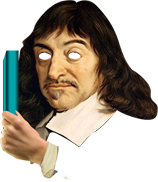
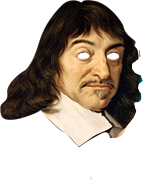
change

diff --git a/javascripts/player.js b/javascripts/player.js
@@ -1,62 +1,36 @@
-// face sprites should be always aligned with eyes because eyes pos is depends on eyes with
-
-var Player = function() {
+// Example how to add new character
+// player.addCharacter({
+//     name : 'Dekart',
+//     faceNormal : image,
+//     faceWin : image,
+//     faceLose : image,
+//     eyeImage : image,
+//     faceOffset : p5.Vector(0, 0),
+//     eyeLPos : p5.Vector(0, 0),
+//     eyeRPos : p5.Vector(0, 0),
+// })
+// ---------------------- CHARACTER -------------------------
+var Character = function(data) {
+    this.name = data['name'];
     this.face = createSprite();
-    this.face.offset = new p5.Vector(0, -130);
-    this.face.timer = 0; // for animation change
-    this.hand = createSprite();
-    this.hand.offset = new p5.Vector(59, -129 / 2);
-    this.hand.immovable = true;
-    this.handVelX = 0;
-    // this.hand.debug = true;
-
-    // Create Event. Set function as a var to pass it somewhere, should run once
-    var self = this; // correct scope to use global variables
-    this.onLoose = function() {
-        self.face.changeImage('loose');
-        self.face.timer = 60;
-    }
-    this.onWin = function() {
-        self.face.changeImage('win');
-        self.face.timer = 60;
-    }
-}
-Player.prototype.getPaddle = function() {
-    return this.hand;
-}
-
-Player.prototype.setupEyes = function(image, posL, posR) {
-    this.eyeL = new Eye(image, calcEyeOffset(this.face, posL.x, posL.y));
-    this.eyeR = new Eye(image, calcEyeOffset(this.face, posR.x, posR.y));
+    this.face.addImage('normal', data['faceNormal']);
+    this.face.addImage('loose', data['faceLose']);
+    this.face.addImage('win', data['faceWin']);
+    this.face.offset = data['faceOffset'];
+    this.face.timer = 0;
+    this.eyeL = new Eye(data['eyeImage'], calcEyeOffset(this.face, data['eyeLPos'].x, data['eyeLPos'].y));
+    this.eyeR = new Eye(data['eyeImage'], calcEyeOffset(this.face, data['eyeRPos'].x, data['eyeRPos'].y));
     this.eyeL.sprite.depth -= this.face.depth + 1;
     this.eyeR.sprite.depth -= this.face.depth + 2;
 }
-
-function calcEyeOffset(img, posx, posy) {
-    return new p5.Vector(posx - img.width / 2, posy - img.height / 2);
+Character.prototype.destroy = function() {
+    delete this.face.remove();
+    delete this.eyeL.destroy();
+    delete this.eyeR.destroy();
 }
-Player.prototype.addFaceImage = function(label, image) {
-    this.face.addImage(label, image);
-}
-Player.prototype.addHandImage = function(image) {
-    this.hand.addImage(image);
-}
-Player.prototype.update = function(pos, targetPos) {
-    // update pos
-    // this.face.velocity.x = (mouseX-this.face.position.x)/10;
-    this.face.position.y = height - 100;
+Character.prototype.update = function(pos, targetPos) {
+    this.face.position.y = height - this.face.offset.y;
     this.face.velocity.x = (mouseX + this.face.offset.x - this.face.position.x) / 10;
-
-    if (mouseY < height - 100) {
-        this.hand.velocity.y = ( height - 100 + this.hand.offset.y - this.hand.position.y) / 5;
-    }else{
-        
-        this.hand.velocity.y = ( mouseY + this.hand.offset.y - this.hand.position.y) / 5;
-    }
-    this.hand.position.x = mouseX + this.hand.offset.x;
-    
-    // set velocity to uset it on ball acceleration
-    this.handVelX = Math.abs(this.hand.velocity.y);
 
     this.eyeL.setLookAt(targetPos.x, targetPos.y);
     this.eyeL.setPos(this.face.position.x, this.face.position.y);
@@ -68,4 +42,85 @@ Player.prototype.update = function(pos, targetPos) {
         this.face.changeImage('normal');
     }
     this.face.timer--;
+};
+// ---------------------- PLAYER -------------------------
+var Player = function() {
+    this.characterData = [];
+    this.curCharacterNum = 0;
+    this.handVelX = 0;
+    // this.hand.debug = true;
+
+    // Create Event. Set function as a var to pass it somewhere, should run once
+    var self = this; // correct scope to use global variables
+    this.onLoose = function() {
+        self.getCurCharacter().face.changeImage('loose');
+        self.getCurCharacter().timer = 60;
+    }
+    this.onWin = function() {
+        self.getCurCharacter().face.changeImage('win');
+        self.getCurCharacter().face.timer = 60;
+    }
+    this.onNextPlayer = function(){
+        self.nextPlayer();
+    }
+};
+Player.prototype.nextPlayer = function() {
+    this.curCharacterNum++;
+    if (this.curCharacterNum > this.characterData.length - 1) {
+        this.curCharacterNum = 0;
+    }
+    this.setCharacter();
+    this.correctDepth();
+}
+Player.prototype.addCharacterData = function(data) {
+    this.characterData.push(data);
+};
+Player.prototype.setCharacter = function() {
+    if (this.character != undefined) {
+        this.character.destroy();
+        delete this.character;
+    }
+    this.character = new Character(this.characterData[this.curCharacterNum]);
+    
+};
+
+
+Player.prototype.getCurCharacter = function() {
+    return this.character;
+};
+Player.prototype.correctDepth = function() {
+    this.hand.depth = 1 + this.character.face.depth;
+};
+
+Player.prototype.getPaddle = function() {
+    return this.hand;
+};
+
+Player.prototype.addHand = function(image) {
+    this.hand = createSprite();
+    this.hand.offset = new p5.Vector(20, -50);
+    this.hand.immovable = true;
+    this.hand.addImage(image);
+};
+
+Player.prototype.updateHand = function(pos, targetPos) {
+    if (mouseY < height - 100) {
+        this.hand.velocity.y = (height - 100 + this.hand.offset.y - this.hand.position.y) / 5;
+    } else {
+
+        this.hand.velocity.y = (mouseY + this.hand.offset.y - this.hand.position.y) / 5;
+    }
+    this.hand.position.x = mouseX + this.hand.offset.x;
+
+    // set velocity to uset it on ball acceleration
+    this.handVelX = Math.abs(this.hand.velocity.y);
+};
+
+Player.prototype.update = function(pos, targetPos) {
+    this.updateHand(pos, targetPos);
+    this.getCurCharacter().update(pos, targetPos);
+};
+
+function calcEyeOffset(img, posx, posy) {
+    return new p5.Vector(posx - img.width / 2, posy - img.height / 2);
 }

diff --git a/sketch.js b/sketch.js
@@ -14,7 +14,6 @@ var quoteStrings;
 // images
 var eyeImage, rectImage, handImg;
 
-
 // sounds
 var soundPlayer;
 var looseSound, winSound, pongHitSound, pongWallSound;
@@ -22,6 +21,9 @@ var looseSound, winSound, pongHitSound, pongWallSound;
 // kant
 var kantPlain, kantSad, kantHappy;
 var kantSprite;
+
+// dekart
+var dekartPlain;
 
 // AIPlayer 
 var aiPlayer;
@@ -47,6 +49,7 @@ function preload() {
     kantPlain = loadImage('Assets/images/kant.png');
     kantSad = loadImage('Assets/images/kant_sad.png');
     kantHappy = loadImage('Assets/images/kant_happy.png');
+    dekartPlain = loadImage('Assets/images/dekart.png');
     ballImage = loadImage('Assets/images/circle_15px.png');
     chaosImage = loadImage('Assets/images/chaos2.png');
 }
@@ -100,14 +103,30 @@ function setupPlayer() {
     playerPos = new p5.Vector(100, 0);
 
     player = new Player();
-    // add images, labels always should be 'normal' 'loose' 'win' to match events
-    player.addFaceImage('normal', kantPlain);
-    player.addFaceImage('loose', kantSad);
-    player.addFaceImage('win', kantHappy);
-    player.hand.addImage(handImg);
-    // create eyes
-    player.setupEyes(eyeImage, new p5.Vector(71, 54), new p5.Vector(99, 54)); // eye pos in px mesured in photoshop according to sprite
-    // subscribe to event when ball loose
+    
+    player.addCharacterData({
+        name: 'Kant',
+        faceNormal: kantPlain,
+        faceWin: kantHappy,
+        faceLose: kantSad,
+        eyeImage: eyeImage,
+        faceOffset: new p5.Vector(0, 0),
+        eyeLPos: new p5.Vector(71, 54),
+        eyeRPos: new p5.Vector(99, 54),
+    }); 
+    player.addCharacterData({
+        name: 'Dekart',
+        faceNormal: dekartPlain,
+        faceWin: dekartPlain,
+        faceLose: dekartPlain,
+        eyeImage: eyeImage,
+        faceOffset: new p5.Vector(0, 0),
+        eyeLPos: new p5.Vector(83, 56),
+        eyeRPos: new p5.Vector(113, 56),
+    }); 
+
+    player.setCharacter();
+    player.addHand(handImg);
 }
 
 function setupBall() {
@@ -121,6 +140,7 @@ function setupBall() {
     // subscribe to ball events, pass the function as variable that should run on any ball event
     ball.onLoose(player.onLoose);
     ball.onWin(player.onWin);
+    ball.onLoose(player.onNextPlayer);
     // subscribe sounds to ball events
     ball.onLoose(soundPlayer.play['looseSound']);
     ball.onWin(soundPlayer.play['winSound']);

diff --git a/javascripts/quote.js b/javascripts/quote.js
@@ -21,7 +21,10 @@ var Quote = function() {
     this.textPos = new p5.Vector(width / 2 - this.bounds.x / 2, 200); // center to the screen
 
     var self = this;
-    this.onQuoteRevealFunc = []; // delegate
+
+    // delegate emulation
+    this.onQuoteRevealFunc = [];
+    this.onQuoteSolveFunc = [];
 
     this.revealWord = function() {
         if (self.sprites.length > 0) {
@@ -37,14 +40,7 @@ var Quote = function() {
                 visibleSprites[randomIndex].visible = false;
                 self.activeColliders.push(visibleSprites[randomIndex].sprite);
             } else {
-                // TODO: add progression and events
-                for (var i = 0; i < self.sprites.length; i++) {
-                    var sprite = self.sprites[i];
-                    sprite.visible = true;
-                    sprite.timer = 20;
-                    sprite.sprite.visible = false;
-                    self.activeColliders = [];
-                }
+                self.solveQuote();
             }
         }
     };
@@ -59,11 +55,25 @@ var Quote = function() {
         }
     }
 }
+Quote.prototype.solveQuote = function() {
+	for (var i = 0; i < this.onQuoteSolveFunc.length; i++) {
+		this.onQuoteSolveFunc[i]();
+	}
+
+    for (var i = 0; i < this.sprites.length; i++) {
+        var sprite = this.sprites[i];
+        sprite.visible = true;
+        sprite.timer = 20;
+        sprite.sprite.visible = false;
+        this.activeColliders = [];
+    }
+};
+// Delegate emulation
 Quote.prototype.onQuoteReveal = function(func) {
     this.onQuoteRevealFunc.push(func);
 };
-Quote.prototype.reset = function(func) {
-    this.onQuoteRevealFunc.push(func);
+Quote.prototype.onQuoteSolve = function(func) {
+    this.onQuoteSolveFunc.push(func);
 };
 Quote.prototype.setupSprites = function() {
     var x = this.textPos.x;

diff --git a/javascripts/ball.js b/javascripts/ball.js
@@ -41,11 +41,13 @@ Ball.prototype.pos = function() { // get ball position
     return this.sprite.position;
 };
 Ball.prototype.bounceWith = function(sprites) {
-    for (var i = 0; i < sprites.length; i++) {
-        var sprite = sprites[i];
-        if (this.sprite.bounce(sprite)) {
-            for (var i = 0; i < this.onWallCollideFunc.length; i++) { // run every subscribed function in array
-                this.onWallCollideFunc[i]();
+    if(this.collideWithOthers){        
+        for (var i = 0; i < sprites.length; i++) {
+            var sprite = sprites[i];
+            if (this.sprite.bounce(sprite)) {
+                for (var i = 0; i < this.onWallCollideFunc.length; i++) { // run every subscribed function in array
+                    this.onWallCollideFunc[i]();
+                }
             }
         }
     }
@@ -94,7 +96,7 @@ Ball.prototype.paddleB = function() {
     // paddle right collide
     if (this.sprite.bounce(this.paddleRight)) {
         // after player hits the ball it can collide with obsctacles
-        this.collideWithOthers = false;
+        this.collideWithOthers = true;
         // delegate
         for (var i = 0; i < this.onRightCollideFunc.length; i++) { // run every subscribed function in array
             this.onRightCollideFunc[i]();
@@ -107,7 +109,7 @@ Ball.prototype.paddleB = function() {
 Ball.prototype.lose = function() {
     // reset ball and move it the right
     if (this.sprite.position.y > height) {
-        // after player hits the ball it can collide with obsctacles
+       // Don't collide with obsctacles
         this.collideWithOthers = false;
 
         for (var i = 0; i < this.onLooseFunc.length; i++) { // run every subscribed function in array

diff --git a/javascripts/eye.js b/javascripts/eye.js
@@ -6,6 +6,9 @@ var Eye = function(image, posOffset) {
     this.size = 13;
     this.angle = 0.0;
 };
+Eye.prototype.destroy = function(){
+    this.sprite.remove();
+}
 Eye.prototype.setLookAt = function(mx, my){
     this.angle = atan2(my-this.sprite.position.y, mx-this.sprite.position.x);
     this.sprite.rotation = this.angle *180 / Math.PI;
